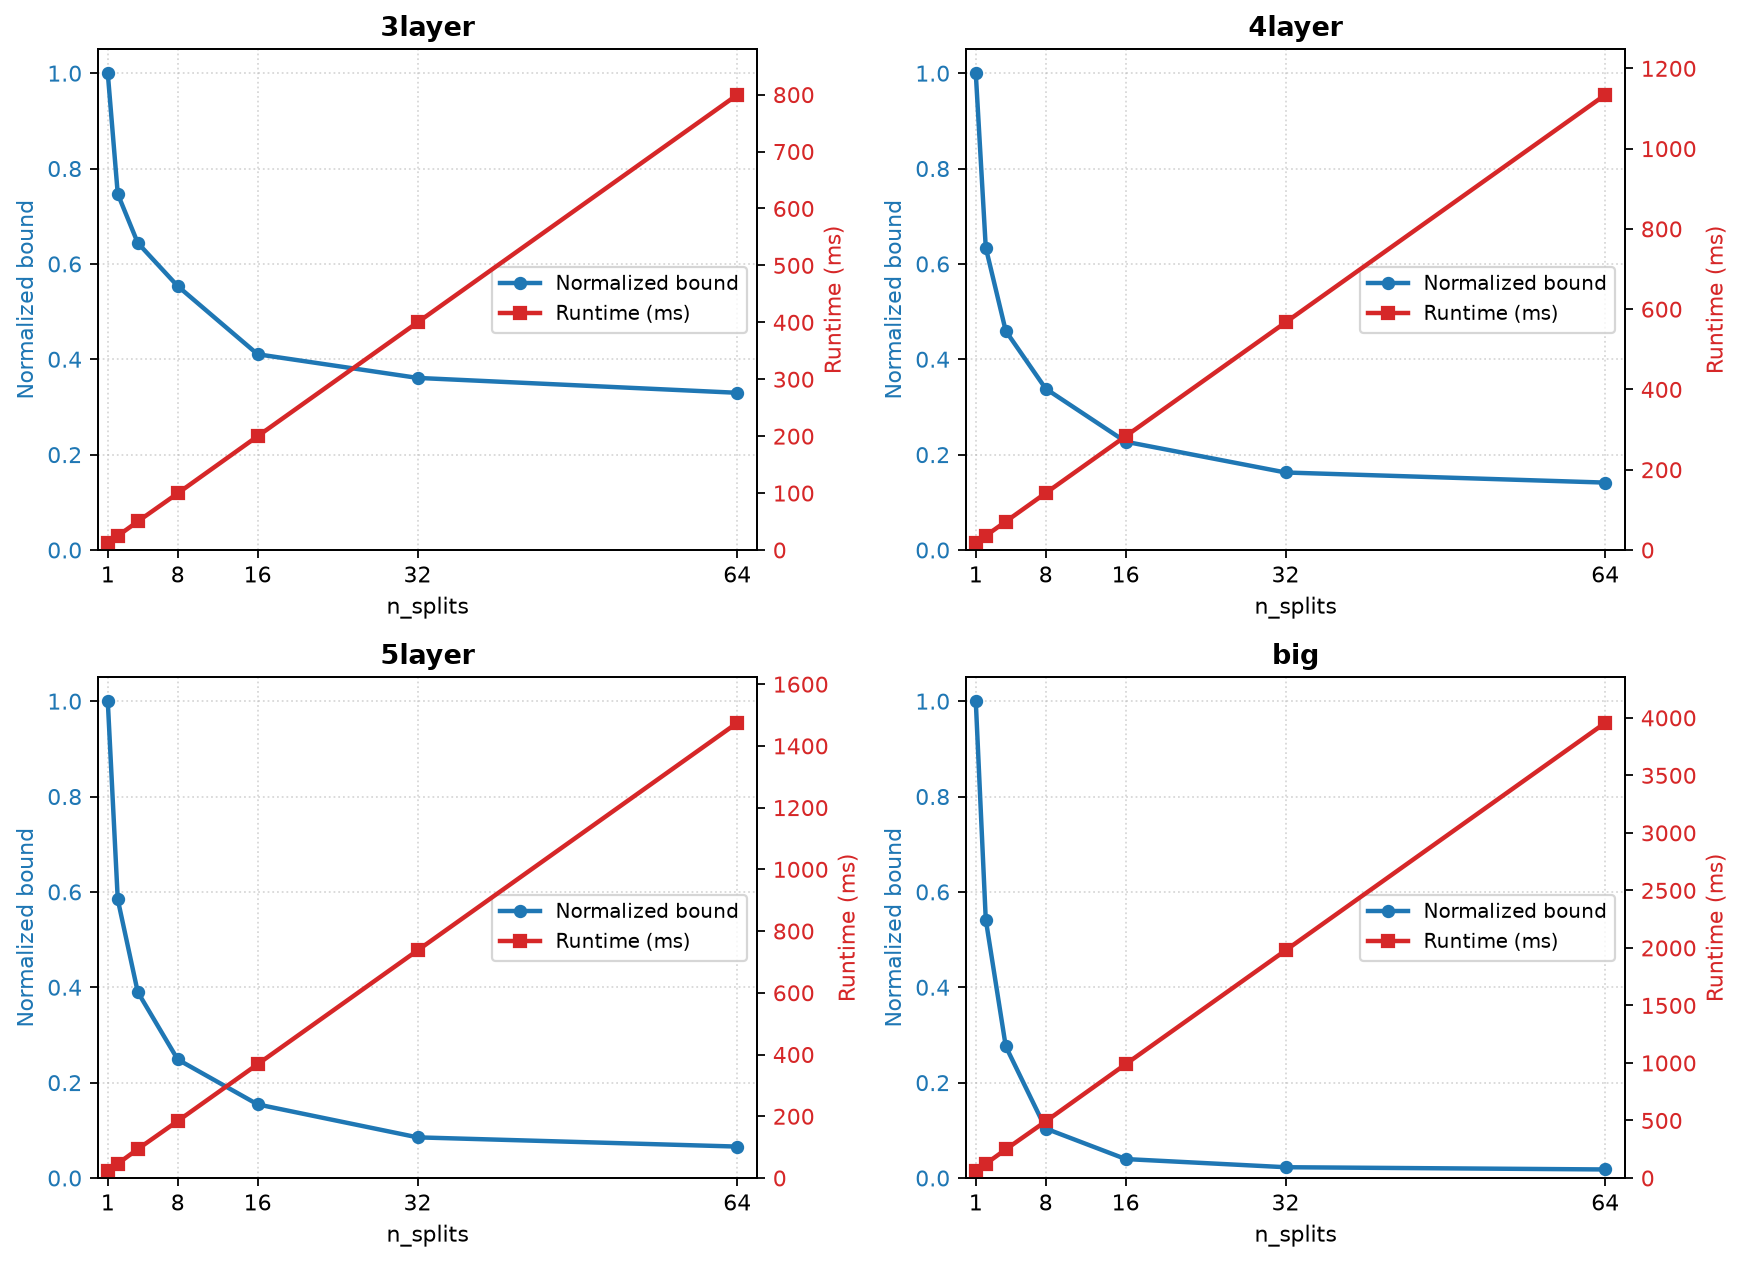
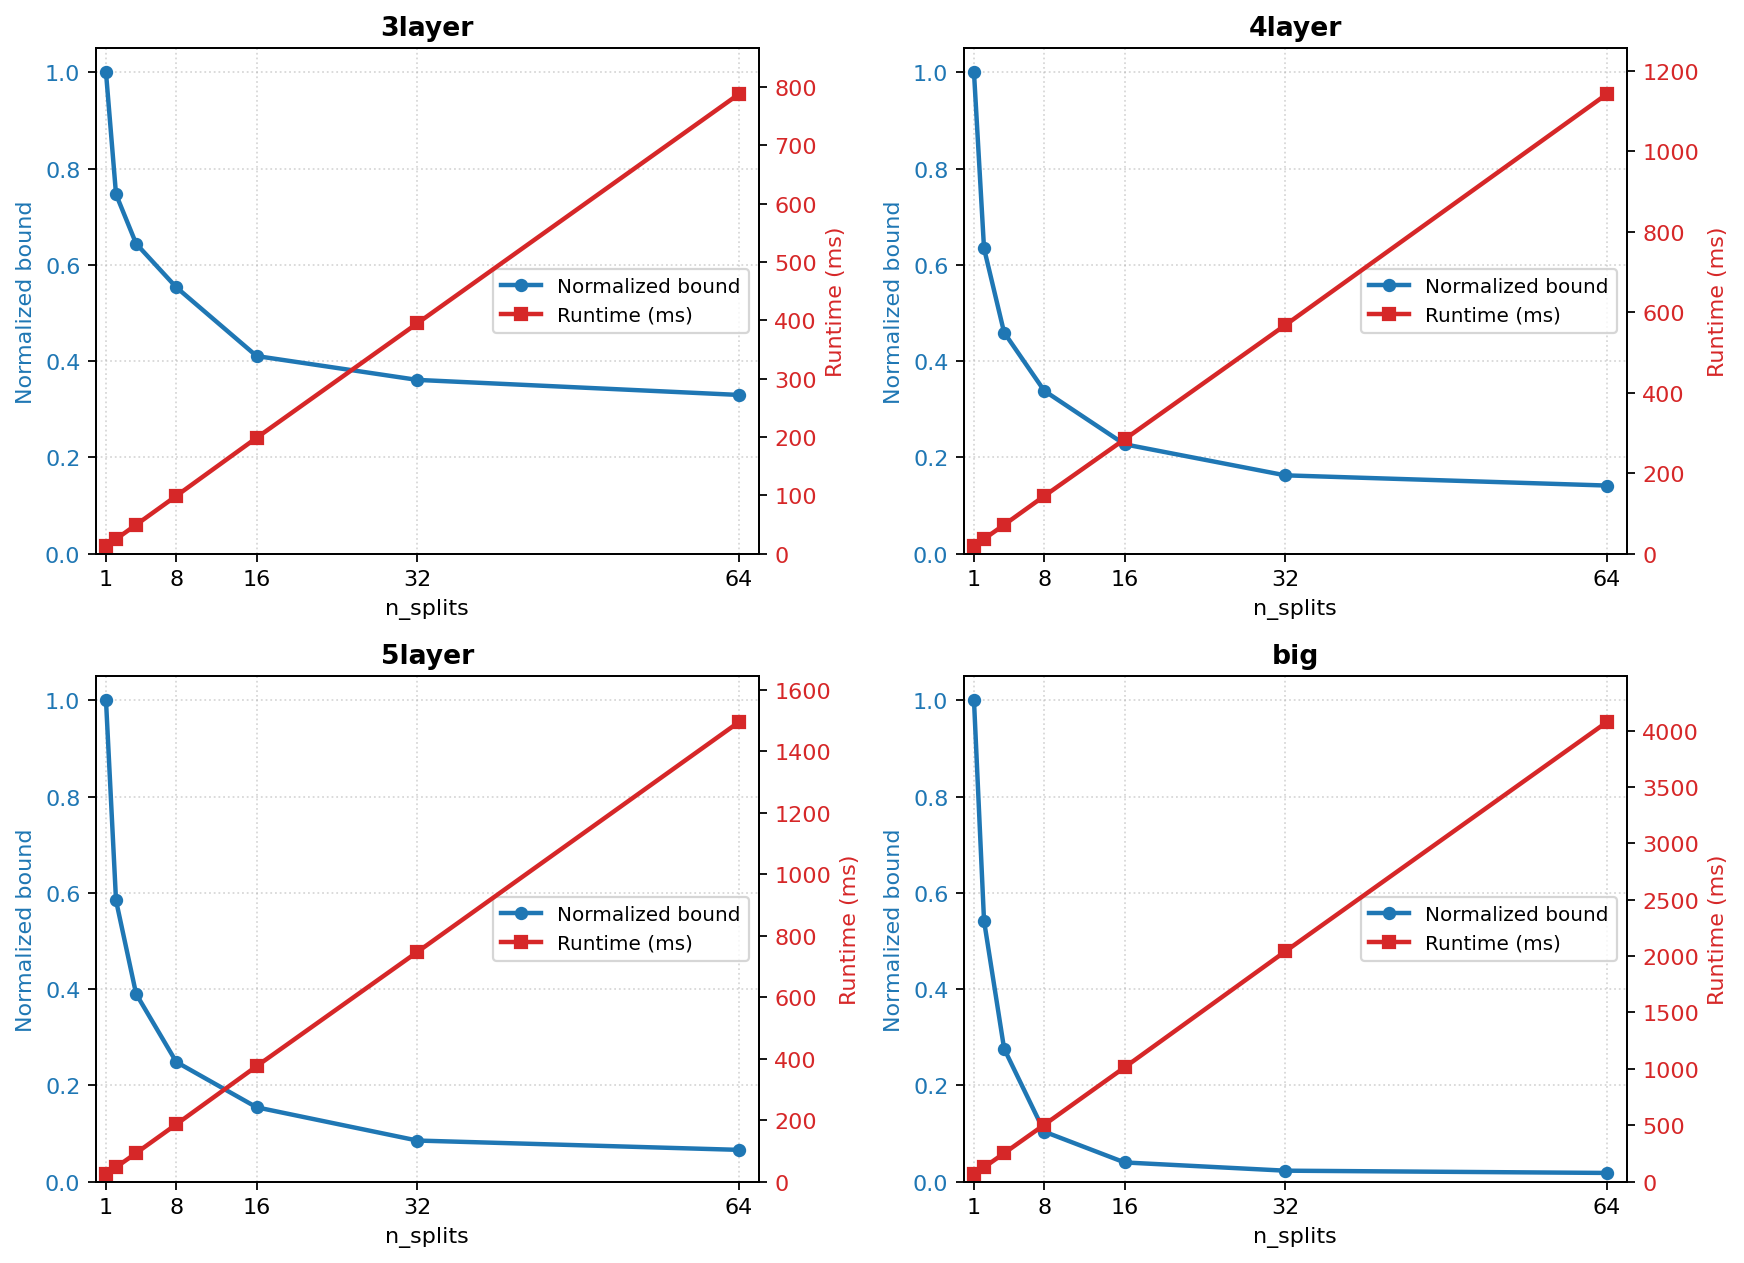
docs: archive CUDA n=1..64 split sweep, VRAM stats, and cubic fix logs

diff --git a/experiments/plot_split_sweep.py b/experiments/plot_split_sweep.py
@@ -179,7 +179,7 @@ def main():
     ap = argparse.ArgumentParser()
     ap.add_argument(
         "--cuda-csv",
-        default="results/gpu_hybrid_split_sweep_2026-10-17/split_sweep_cuda_fp64.csv",
+        default="results/gpu_hybrid_split_sweep_2026-10-17/split_sweep_cuda_fp64_to64.csv",
     )
     ap.add_argument(
         "--cpu64-csv",

diff --git a/results/gpu_hybrid_split_sweep_2026-10-17/README.md b/results/gpu_hybrid_split_sweep_2026-10-17/README.md
@@ -36,15 +36,30 @@ evaluating `n_splits = 1, 2, 4, 8, 16` across `3layer`, `4layer`, `5layer`, and
 | `5layer` | `4113.32` (23.1 ms) | `2402.76` (46.3 ms) | `1604.41` (93.6 ms) | `1022.46` (184.6 ms) | `634.78` (368.7 ms) | **`6.48x`** (-84.57%) |
 | `big` | `14191.72` (61.7 ms) | `7693.10` (123.1 ms) | `3918.94` (248.5 ms) | `1471.45` (492.4 ms) | `563.78` (989.1 ms) | **`25.17x`** (-96.03%) |
 
-### 3. Extended Sweep up to `n_splits = 32` and `64` (`eps_idx = 0`, `float64`)
+### 3. Extended CUDA Sweep up to `n_splits = 32` and `64` (`eps_idx = 0`, `float64`, `split_sweep_cuda_fp64_to64.csv`)
 
-| Network | `n=1` (`LC` / norm) | `n=4` (`LC` / norm) | `n=8` (`LC` / norm) | `n=16` (`LC` / norm) | `n=32` (`LC` / norm) | `n=64` (`LC` / norm) | Tightening at `64` |
-|---|---:|---:|---:|---:|---:|---:|---:|
-| `3layer` | `591.04` (`1.00`) | `380.66` (`0.64`) | `327.08` (`0.55`) | `242.61` (`0.41`) | `213.32` (`0.36`) | `194.85` (`0.33`) | **`3.03x`** (-67.03%) |
-| `4layer` | `1750.56` (`1.00`) | `804.23` (`0.46`) | `592.15` (`0.34`) | `397.53` (`0.23`) | `284.57` (`0.16`) | `247.45` (`0.14`) | **`7.07x`** (-85.86%) |
-| `5layer` | `4113.32` (`1.00`) | `1604.41` (`0.39`) | `1022.46` (`0.25`) | `634.78` (`0.15`) | `350.60` (`0.085`) | `271.00` (`0.066`) | **`15.18x`** (-93.41%) |
-| `big` | `14191.72` (`1.00`) | `3918.94` (`0.28`) | `1471.45` (`0.10`) | `563.78` (`0.040`) | `320.88` (`0.023`) | `254.12` (`0.018`) | **`55.85x`** (-98.21%) |
+| Network | `n=1` (`LC` / norm / ms) | `n=4` (`LC` / norm / ms) | `n=8` (`LC` / norm / ms) | `n=16` (`LC` / norm / ms) | `n=32` (`LC` / norm / ms) | `n=64` (`LC` / norm / ms) | Tightening at `64` | Peak VRAM (n=1..64) |
+|---|---:|---:|---:|---:|---:|---:|---:|---:|
+| `3layer` | `591.04` (`1.00`, 12.4 ms) | `380.66` (`0.64`, 49.4 ms) | `327.08` (`0.55`, 98.9 ms) | `242.61` (`0.41`, 198.5 ms) | `213.32` (`0.36`, 394.9 ms) | `194.85` (`0.33`, 787.8 ms) | **`3.03x`** (-67.03%) | `10.78 MB` (flat) |
+| `4layer` | `1750.56` (`1.00`, 17.8 ms) | `804.23` (`0.46`, 71.4 ms) | `592.15` (`0.34`, 143.0 ms) | `397.53` (`0.23`, 283.9 ms) | `284.57` (`0.16`, 567.7 ms) | `247.45` (`0.14`, 1141.3 ms) | **`7.07x`** (-85.86%) | `12.11 MB` (flat) |
+| `5layer` | `4113.32` (`1.00`, 23.6 ms) | `1604.41` (`0.39`, 92.7 ms) | `1022.46` (`0.25`, 186.3 ms) | `634.78` (`0.15`, 375.4 ms) | `350.60` (`0.085`, 747.0 ms) | `271.00` (`0.066`, 1494.8 ms) | **`15.18x`** (-93.41%) | `13.43 MB` (flat) |
+| `big` | `14191.72` (`1.00`, 62.9 ms) | `3918.94` (`0.28`, 251.2 ms) | `1471.45` (`0.10`, 503.8 ms) | `563.78` (`0.040`, 1013.1 ms) | `320.88` (`0.023`, 2041.1 ms) | `254.12` (`0.018`, 4073.5 ms) | **`55.85x`** (-98.21%) | `480.52 MB` (flat) |
 
-- Runtime grows strictly linearly `O(n)` with `n_splits`, while peak device memory remains `O(1)` because sub-intervals are evaluated sequentially in a loop.
+- Runtime grows strictly linearly `O(n)` with `n_splits` (`~12.3 ms/split` on `3layer`, `~17.8 ms/split` on `4layer`, `~23.4 ms/split` on `5layer`, `~63.7 ms/split` on `big`).
+- Peak CUDA memory (`peak_vram_mb`) remains completely constant `O(1)` across `n_splits = 1..64` (`10.78 MB` on `3layer`, `12.11 MB` on `4layer`, `13.43 MB` on `5layer`, `480.52 MB` on `big`) because sub-intervals are evaluated sequentially in a loop.
 - Dual-axis plots (`Normalized bound` on the left axis starting at `1.0`, `Runtime (ms)` on the right axis) are saved in `split_sweep_dual_axis_cuda_to64.png` and `split_sweep_dual_axis_measured_to64.png` (generated by `experiments/plot_split_sweep.py`).
+
+### 4. CUDA Verification of Complex Cubic Root Fixes (`complex_cubic_fixes_cuda.log`)
+
+Evaluating `experiments/verify_complex_cubic_fixes.py` directly on CUDA (`float64`, `image_id = 0`, `eps = 0.632456`):
+- On 3,000 valid roots on CUDA, legacy `torch.isreal(x)` keeps only `1895 / 3000` roots (dropping 1,105 valid roots due to `complex64` imaginary rounding residuals), which severely underestimates `lc_precise`.
+- Both Method 1 (`|Im(x)| <= 1e-6` + cubic residual check) and Method 2 (Miné 2004 floating-point rounding bounds, `delta_imag = 8.26e-7`) keep `3000 / 3000` valid roots and `0 / 400` false positives:
+
+| Network | Legacy `torch.isreal` (CUDA) | Viète (real) | Method 1 (`0.33333`) | Method 1 (`1/3`) | Method 2 Miné (`0.33333`) | Method 2 Miné (`1/3`) |
+|---|---:|---:|---:|---:|---:|---:|
+| `3layer` | `493.162386` | `574.396403` | `574.396388` | `574.396403` | `574.396388` | `574.396403` |
+| `4layer` | `1021.444522` | `1659.975192` | `1659.975116` | `1659.975192` | `1659.975116` | `1659.975192` |
+| `5layer` | `2184.834761` | `4454.414814` | `4454.414582` | `4454.414814` | `4454.414582` | `4454.414814` |
+| `big` | `5035.151424` | `14466.403262` | `14466.403138` | `14466.403262` | `14466.403138` | `14466.403262` |
+
 
